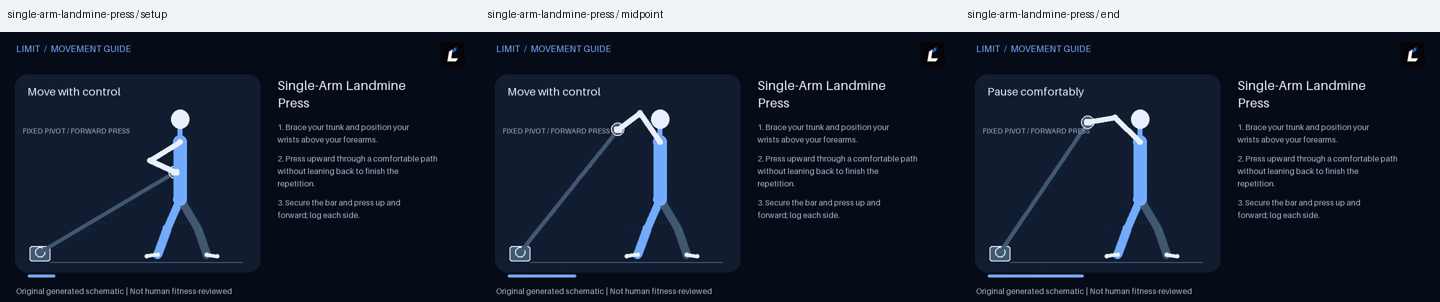
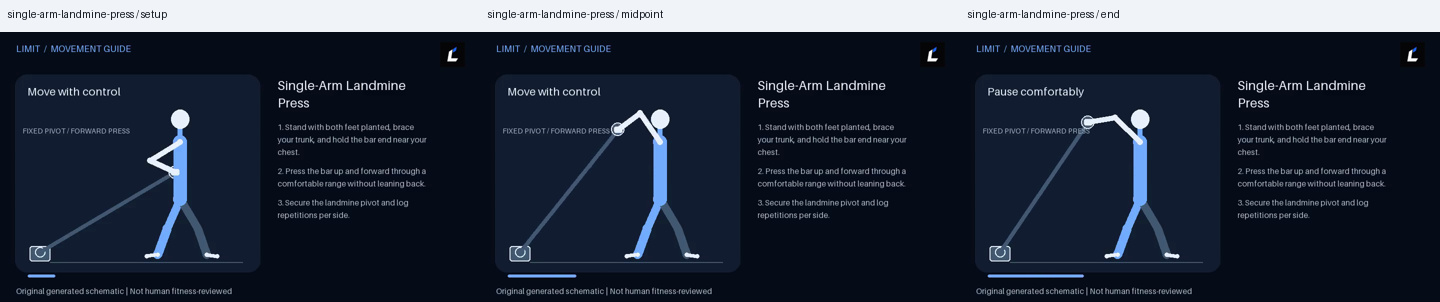
Correct landmine press setup and pivot cues

diff --git a/packages/domain/exerciseCatalog.js b/packages/domain/exerciseCatalog.js
@@ -229,6 +229,16 @@ groups.find((entry) => entry.catalogKey === "wall-handstand-push-up").instructio
   "Bend your elbows to lower your head toward the floor, then press back to a stable handstand.",
   "Learn an exit with a coach and avoid loading the neck.",
 ];
+groups.find((entry) => entry.catalogKey === "single-arm-landmine-press").instructions = [
+  "Stand with both feet planted, brace your trunk, and hold the bar end near your chest.",
+  "Press the bar up and forward through a comfortable range without leaning back.",
+  "Secure the landmine pivot and log repetitions per side.",
+];
+groups.find((entry) => entry.catalogKey === "half-kneeling-landmine-press").instructions = [
+  "Place one knee on padding and plant the opposite foot; brace before gripping the bar end.",
+  "Press the bar up and forward through a comfortable range without leaning back.",
+  "Keep your ribs down and pelvis level; log each side.",
+];
 group(
   "Side delts",
   [],

diff --git a/docs/exercise-media.md b/docs/exercise-media.md
@@ -329,12 +329,14 @@ The hundred-and-thirty-first batch adds `glute-ham-raise` on a fixed footplate, 
 
[1 lines of base64/hex data omitted]
 
[2 lines of base64/hex data omitted]
 
[1 lines of base64/hex data omitted]
 
[1 lines of base64/hex data omitted]
 
[2 lines of base64/hex data omitted]
 
[1 lines of base64/hex data omitted]
+
[1 lines of base64/hex data omitted]
